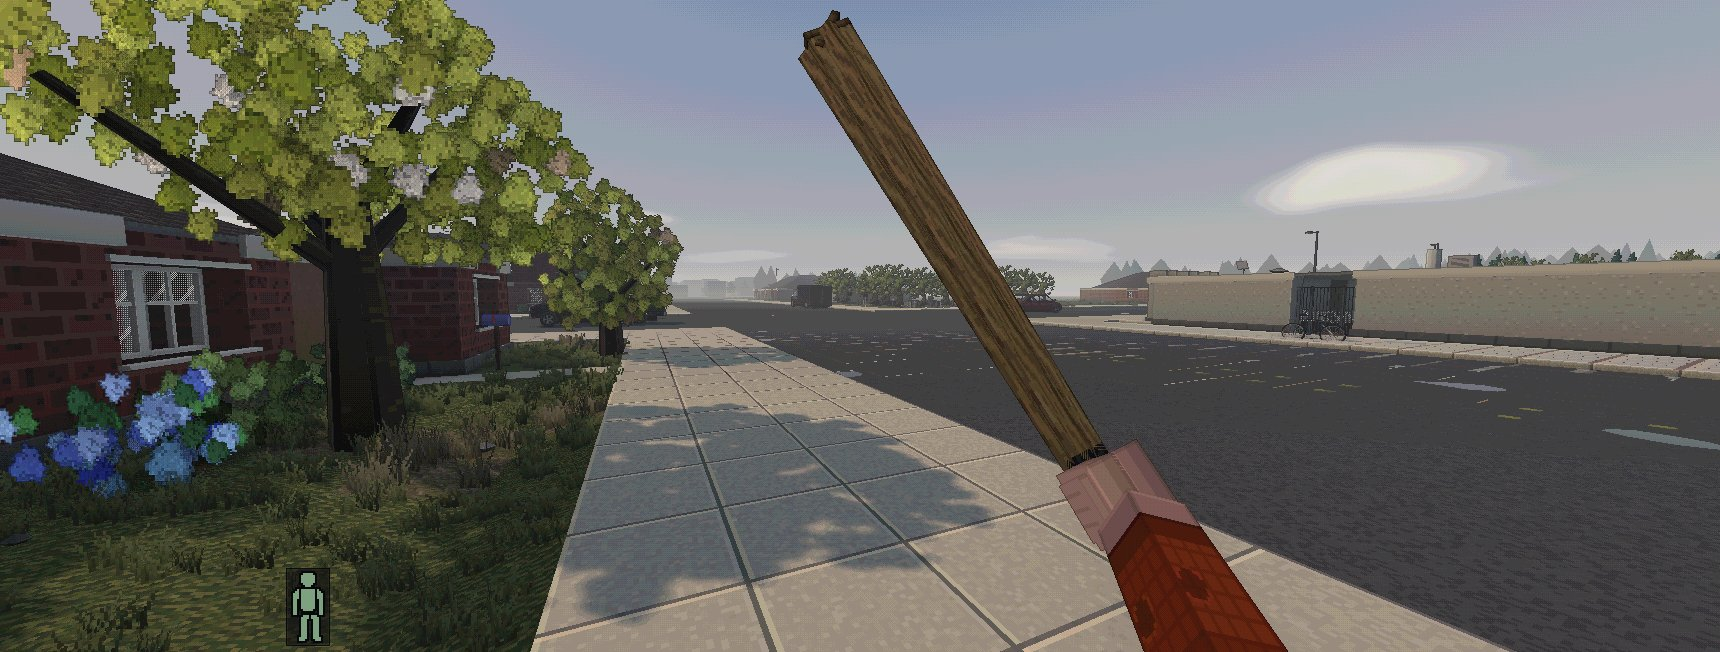
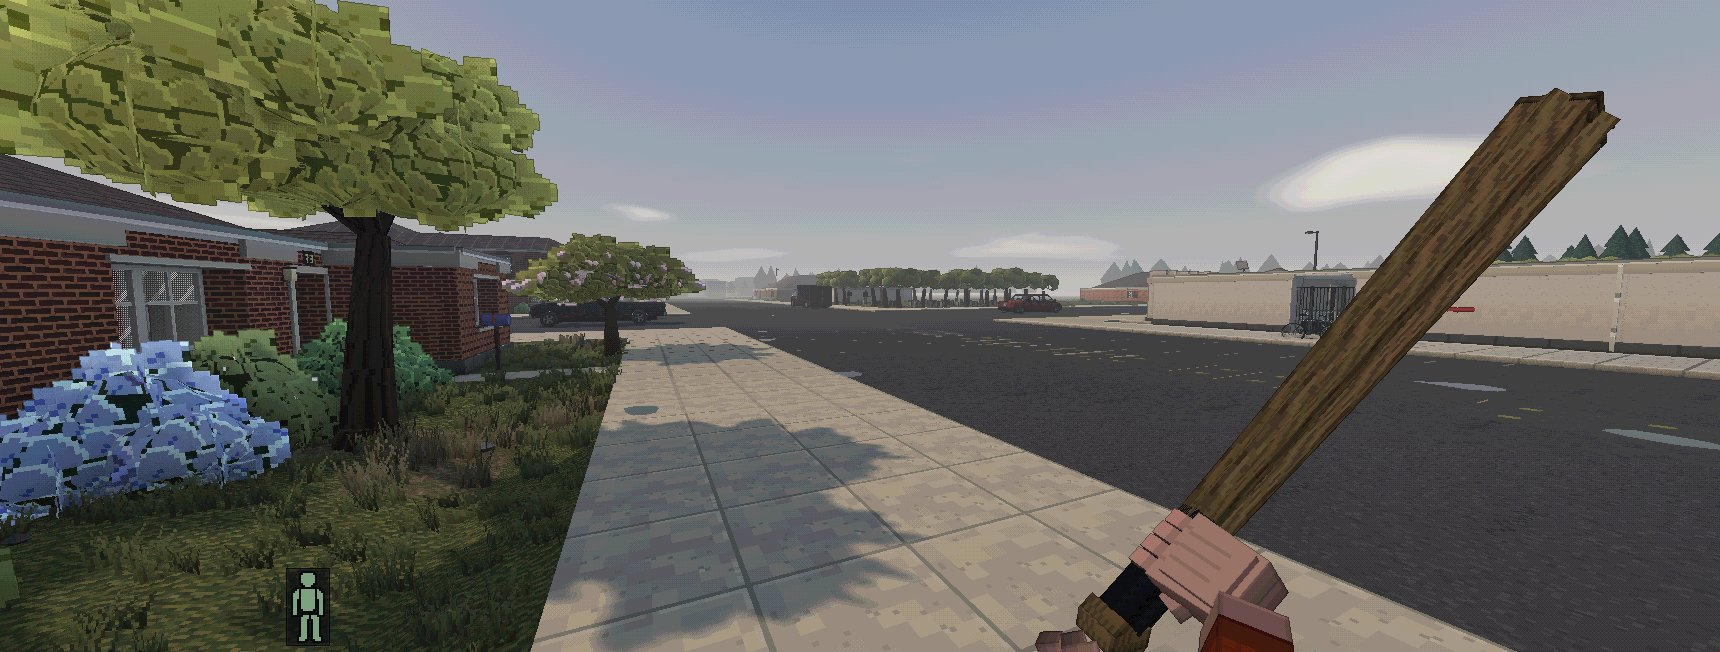
First-person long melee weapons rest low and angled to the right edge (QA: bat covered the middle on ultrawide); swings/guard unchanged

diff --git a/src/render/chars/fpView.ts b/src/render/chars/fpView.ts
@@ -338,7 +338,13 @@ export class FpView {
         place(this.rootR, at(it.x, it.y, 0.42), [0, 0, it.rot]);
       } else {
         // melee: the 2D swing rotation becomes a roll across the view plus a chop forward
-        place(this.rootR, at(it.x, it.y, 0.56 + Math.max(0, it.dy) * 0.4), [it.rot * 0.55, -it.rot * 0.25, it.rot * 0.85]);
+        // At rest a long weapon (bat, spear, sword, pipe...) is carried low and leaned out toward
+        // the right edge so it doesn't stand in the middle of a wide view (QA on 3440x1304);
+        // the lean fades out as soon as a swing or the guard moves the hands.
+        const long = this.cls === 'bat' || this.cls === 'spear' || this.cls === 'sword' || this.cls === 'pipe' || this.cls === 'axe' || this.cls === 'hammer' || this.cls === 'machete';
+        const rest = long ? Math.max(0, 1 - Math.abs(it.rot) * 3 - Math.abs(it.dy) * 6 - Math.abs(it.dx) * 6 - st.guard * 1.5) : 0;
+        place(this.rootR, at(it.x + H * 0.16 * rest, it.y - H * 0.16 * rest, 0.56 + Math.max(0, it.dy) * 0.4),
+          [it.rot * 0.55 + 0.35 * rest, -it.rot * 0.25, it.rot * 0.85 - 1.35 * rest]);
       }
       this.setRoot(R, this.rootR);
       show(R, it.vis);
